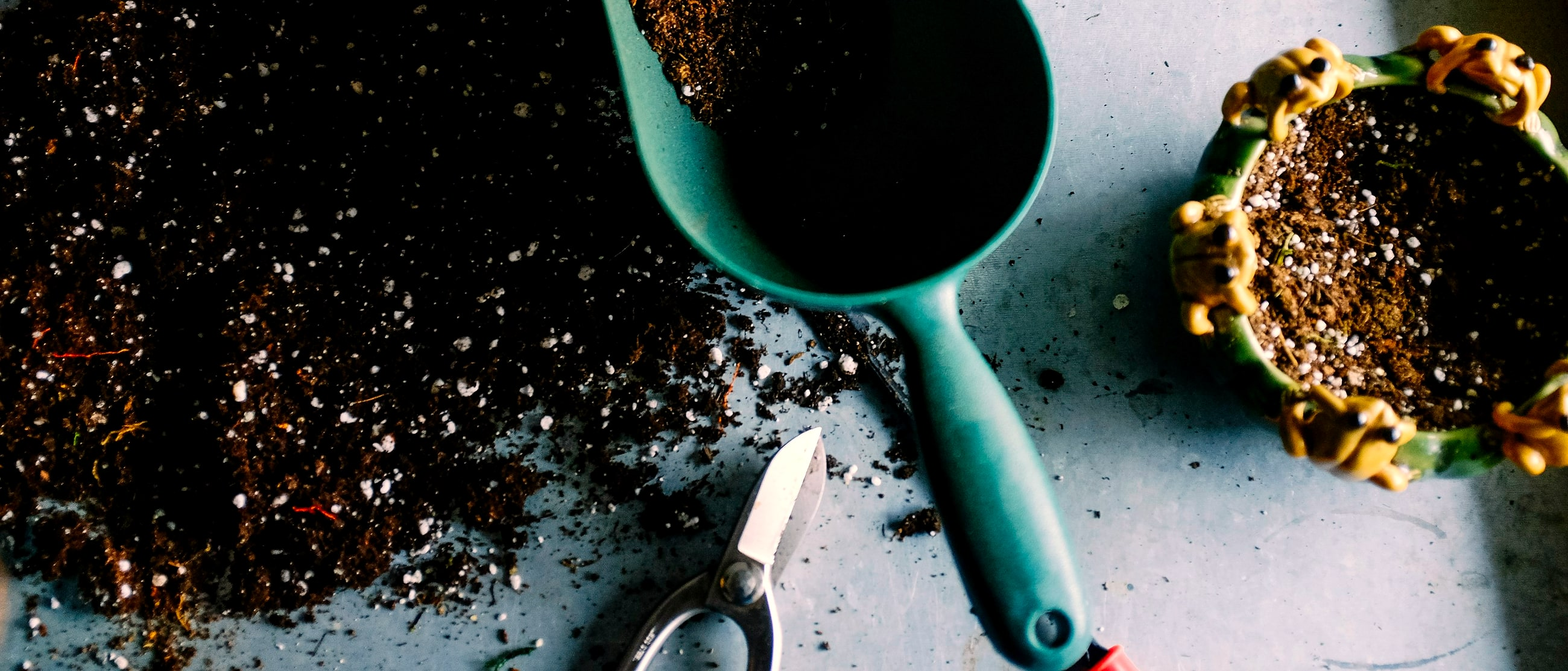
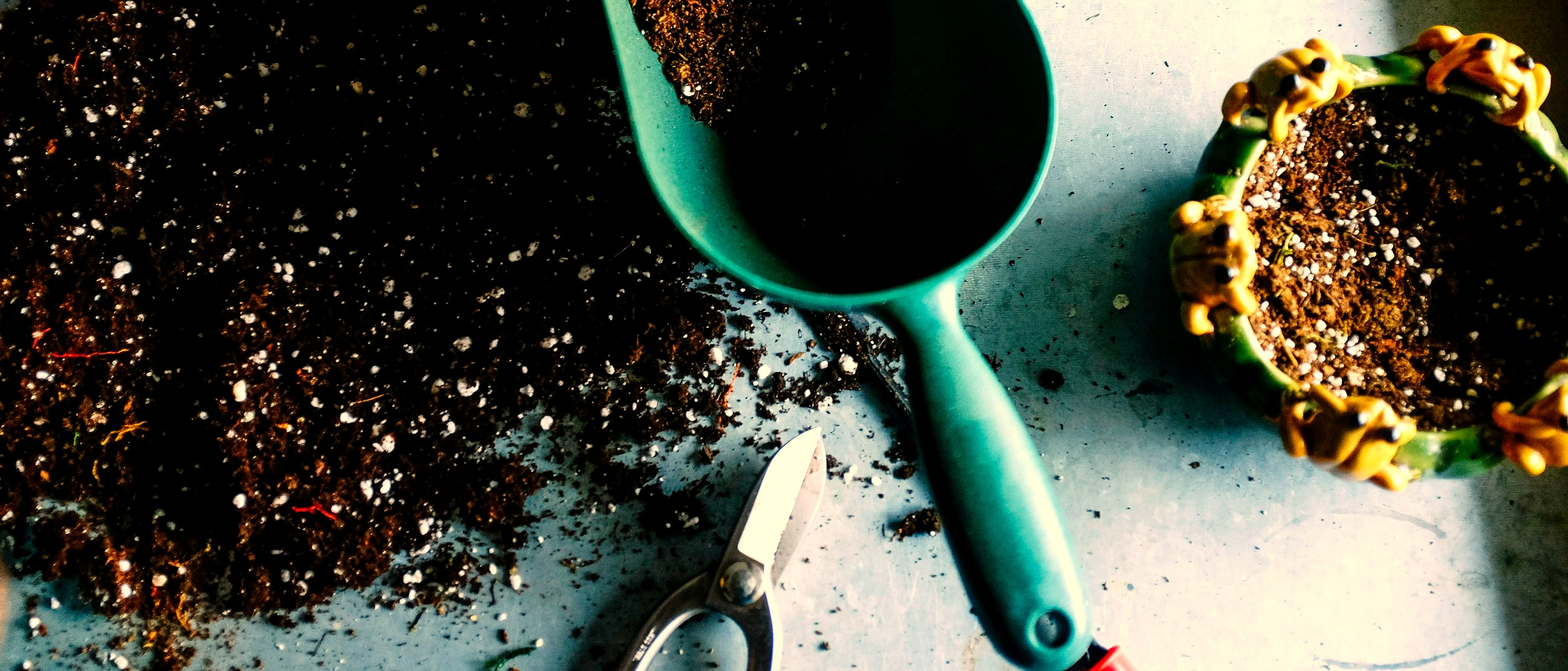
Put some colour back into the wide gallery photograph
break-produce.jpg is a scoop of potting soil on a gray concrete slab in cold
shade. Graded at the standard recipe its mean channels came out R62 G65 B61 —
literally gray — which made the widest image on the homepage the coldest thing
on the page, sitting between a carrot-and-radish spread and green seedlings.

Raising `warmth` alone could not fix it. Warmth only lifts the red slope, so it
warms midtones and leaves a light, cold highlight exactly as blue as it was;
the concrete stayed gray however far it was pushed. Added `cool`, which scales
the blue slope down, and that is what neutralises the highlight. R-B goes from
-1 to +9, the soil reads warm brown, and the frog planter is yellow-green
rather than gray-green.

`cool` defaults to 1, so the other four photographs regrade byte-identically —
verified by checksum, not by eye.

Also passes an accurate alt string for that photo. This changes no rendered
output: break-produce is a decorative slot, and <Photo> discards alt for
decorative images and emits alt="", which is correct. It matters only if the
slot's role is ever flipped to 'meaningful'.

diff --git a/src/i18n/ui.ts b/src/i18n/ui.ts
@@ -194,6 +194,17 @@ const en = {
   'gallery.garden': 'Young vegetable plants growing in the garden.',
   'gallery.harvest': 'Freshly harvested vegetables at a market stall.',
   'gallery.produce': 'A spread of mixed seasonal vegetables.',
+  /*
+    For the wide gallery photo, which borrowed `gallery.produce` — a string
+    saying "mixed seasonal vegetables" for a picture of soil and hand tools.
+
+    Nothing was broken by that: `break-produce` is a DECORATIVE slot, and
+    <Photo> discards alt for decorative images and renders alt="", which is the
+    right output. This exists so the string in the source is true anyway. If
+    the slot's role is ever flipped to 'meaningful' in photos.ts, the alt that
+    starts being used should describe the photograph that is actually there.
+  */
+  'gallery.potting': 'Potting soil, a hand scoop, and pruners on a work surface.',
 
   // Forms
   'form.comingSoon': 'Sign-up opens soon. Email us in the meantime.',
@@ -392,6 +403,7 @@ const es: Record<UIKey, string> = {
   'gallery.garden': 'Plantas jóvenes de hortalizas creciendo en el huerto.',
   'gallery.harvest': 'Verduras recién cosechadas en un puesto de mercado.',
   'gallery.produce': 'Una variedad de verduras de temporada.',
+  'gallery.potting': 'Tierra para macetas, una pala de mano y tijeras de podar sobre una mesa.',
 
   // Formularios
   'form.comingSoon': 'La inscripción abre pronto. Mientras tanto, escríbanos.',
